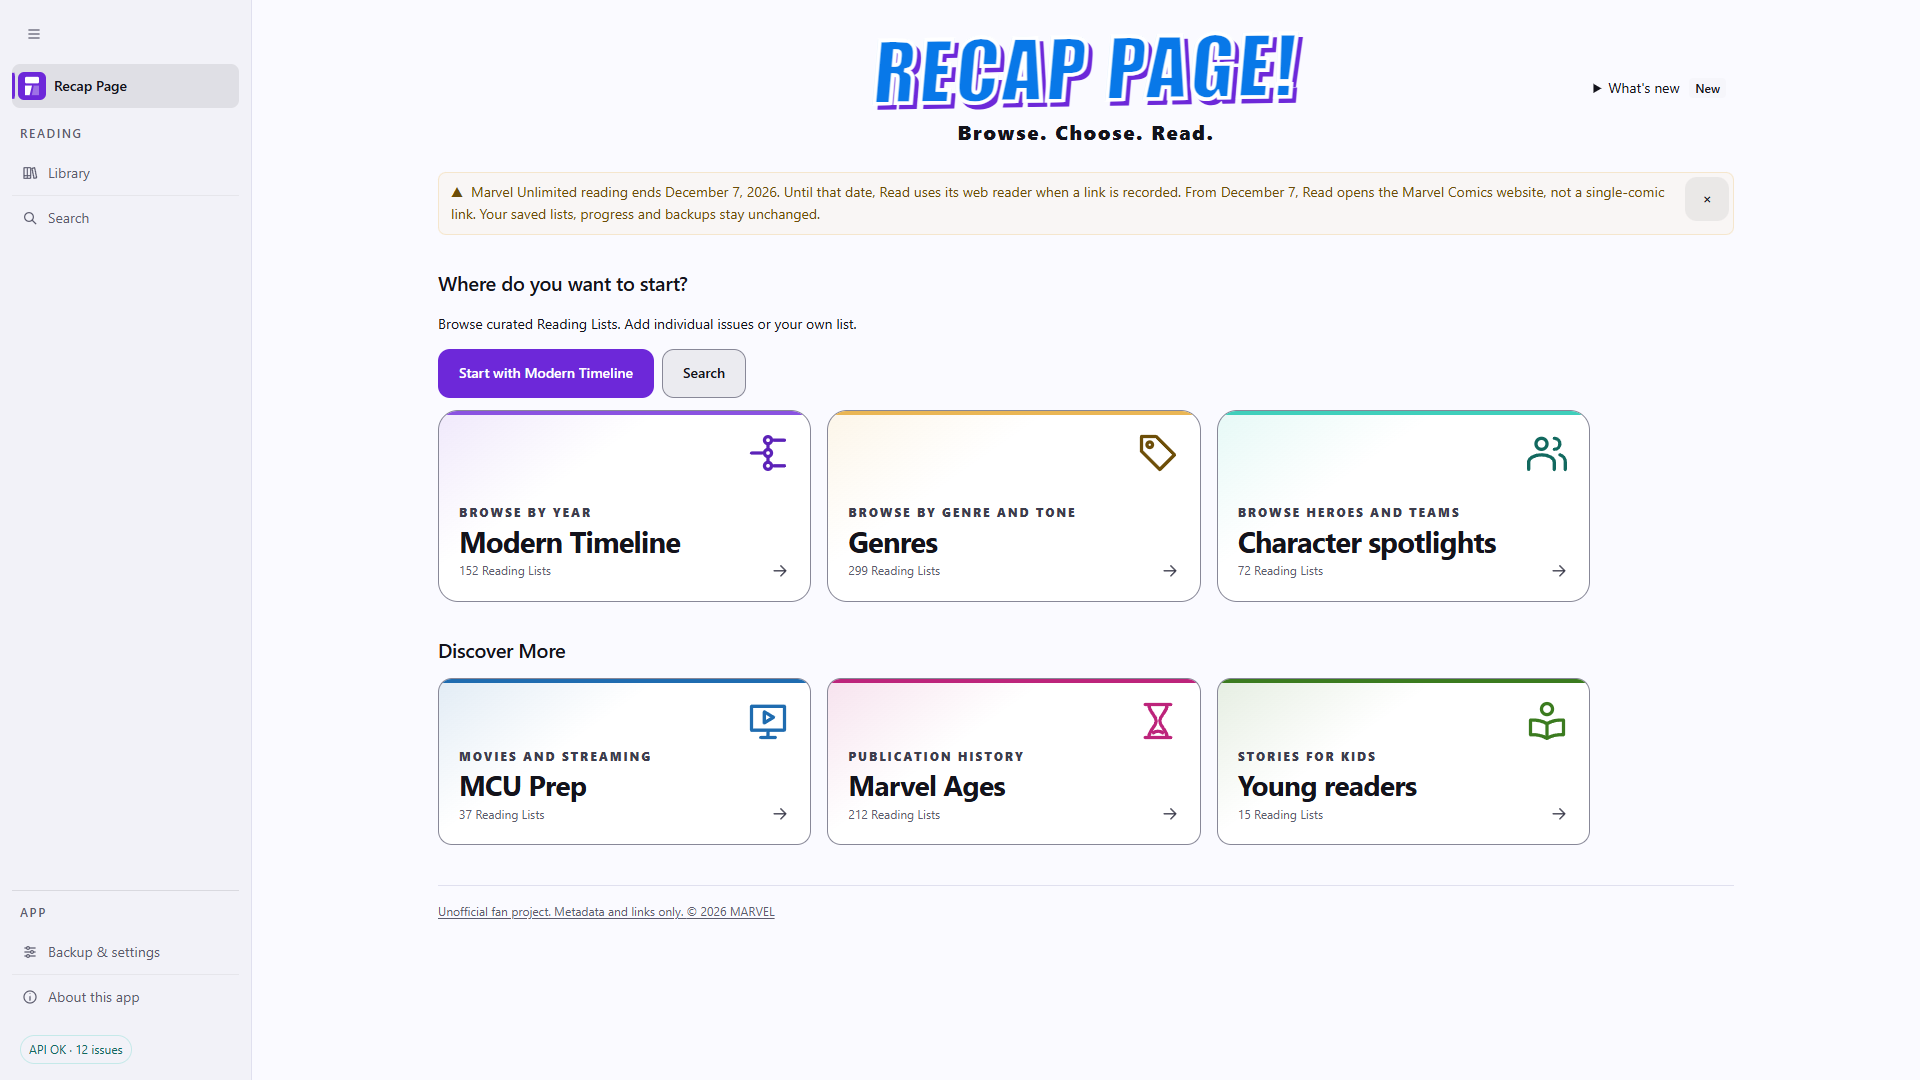
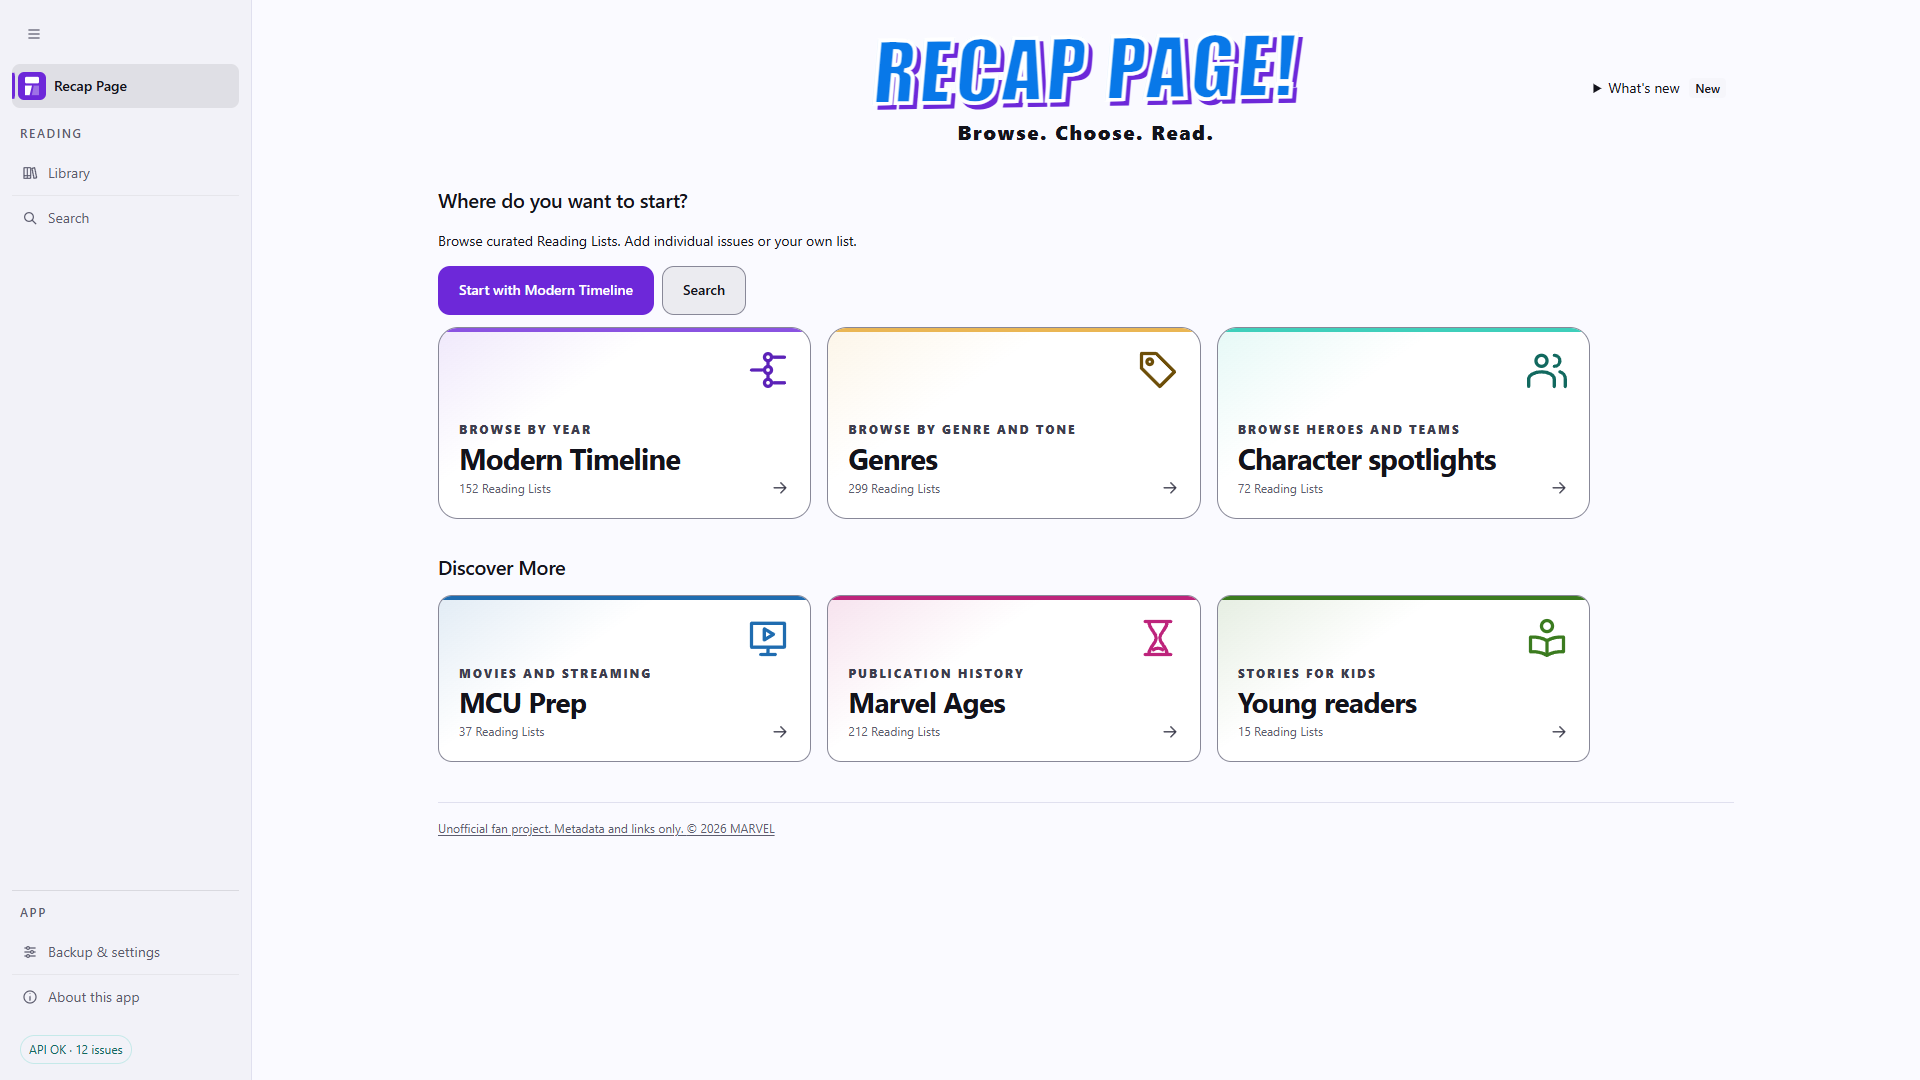
Dismiss the dated Home notice in the saved store screenshots
The owner chose notice-free Home frames for the store refresh. Both capture
paths now use the app's Dismiss button and wait for the notice to disappear
before framing, without changing production UI or synthetic reading data.

Pin both Home-only switches, the click-and-wait sequence, failure propagation,
and the exact Home description and alt text approved on November 3. Removing
the click makes the targeted check fail. Recapture the sets and preserve the
fictional fixtures and capture audits.

Record the owner's current delivery plan: Google Play and the App Store refresh
with 4.4.0; Microsoft Store first completes the automated app submission, then
receives a separate listing-only update after 4.4.0 is live. New documentation
sentences remain subject to owner approval.

Changed region(s): [[0.2188, 0.1528, 0.875, 0.7944], [0.2188, 0.825, 0.4062, 0.8556]]

diff --git a/test/play-assets.test.js b/test/play-assets.test.js
@@ -8,9 +8,49 @@ import {
 } from '../scripts/play-assets.mjs';
 import { migrate } from '../src/js/lib/model.js';
 import { LOCAL_SERVER_HEALTH_PATH } from '../src/js/lib/localServer.js';
+import { dismissListingNotice } from '../scripts/listing-fixtures.mjs';
+import { SCREENSHOTS } from '../scripts/capture-store-assets.mjs';
 
 const icon = playIcon();
 const feature = featureGraphic();
+
+test('only the desktop and Play Home captures dismiss the December 7 notice before framing', async () => {
+  assert.equal(ASSETS.find(({ file }) => file === 'dark-01-home.png').alt,
+    'Dark Android Home with a Modern Timeline starting action, Search and a Modern Timeline discovery card.',
+    'owner-approved notice-free Home alt text, November 3, 2026');
+  assert.ok(readFileSync(new URL('../docs/MICROSOFT_STORE_SUBMISSION.md', import.meta.url), 'utf8')
+    .includes('Dark Home offers a first reading step on Modern Timeline, with Search and a Modern Timeline discovery card.'),
+  'owner-approved notice-free Home description, November 3, 2026');
+  assert.deepEqual(SCREENSHOTS.filter(({ dismissNotice }) => dismissNotice).map(({ file }) => file), ['01-home-discovery.png']);
+  assert.deepEqual(SCREENS.filter(({ dismissNotice }) => dismissNotice).map(({ file }) => file), ['dark-01-home.png']);
+  for (const script of ['capture-store-assets.mjs', 'capture-play-assets.mjs']) {
+    const source = readFileSync(new URL(`../scripts/${script}`, import.meta.url), 'utf8');
+    assert.match(source, /await dismissListingNotice\(page, (?:screen|screenshot)\.dismissNotice\);/);
+    assert.ok(source.indexOf('await dismissListingNotice(') < source.indexOf('await document.fonts.ready'));
+  }
+  const calls = [];
+  const page = {
+    async waitForSelector(selector, options) { calls.push([selector, options]); },
+    async $eval(selector, action) {
+      assert.equal(selector, '#reader-closure-dismiss');
+      action({ click() { calls.push('click'); } });
+    },
+  };
+  await dismissListingNotice(page, false);
+  assert.deepEqual(calls, []);
+  await dismissListingNotice(page, true);
+  assert.deepEqual(calls, [
+    ['#reader-closure-dismiss', { visible: true, timeout: 15000 }],
+    'click',
+    ['#reader-closure-notice', { hidden: true, timeout: 15000 }],
+  ]);
+  await assert.rejects(dismissListingNotice({
+    ...page,
+    async waitForSelector(selector) {
+      if (selector === '#reader-closure-notice') throw new Error('notice remains visible');
+    },
+  }, true), /notice remains visible/);
+});
 
 test('Play icon preserves the authored mark with opaque full-bleed square corners', () => {
   const image = decodePng(icon);

diff --git a/test/store-submission.test.js b/test/store-submission.test.js
@@ -56,7 +56,8 @@ test('the next listing set replaces the false About image with cloud-enabled Abo
   const assets = packet.slice(packet.indexOf('## Listing assets'), packet.indexOf('## Final upload handoff'));
   assert.doesNotMatch(assets, /05-about-privacy\.png/);
   assert.match(assets, /six screenshots were captured/i);
-  assert.match(assets, /live Microsoft Store listing still shows the older\s+screenshots/i);
+  assert.match(assets, /automated 4\.4\.0 Microsoft Store app submission keeps the current screenshots/i);
+  assert.match(assets, /Once 4\.4\.0 is live, a separate listing-only Partner Center submission through Playwright uploads\s+this refreshed Windows set with the approved captions/i);
   assert.match(assets, /predates Genres and\s+still shows Storylines/i);
   assert.match(assets, /next listing update/i);
   assert.match(packet, /In Partner Center, remove the existing About screenshot before submitting 4\.3\.0/);

diff --git a/docs/MICROSOFT_STORE_SUBMISSION.md b/docs/MICROSOFT_STORE_SUBMISSION.md
@@ -317,13 +317,15 @@ copied into the bracketed line above.
 
 ## Listing assets
 
-**Prepared for the next listing update, not the live listing.** Part of #1015.
-The owner chose on 2026-10-31: "Actually, just save the screenshots for later use. I don't want to
-process certification once again." The live Microsoft Store listing still shows the older
-screenshots. Google Play shows the set the owner uploaded on 2026-10-31, which predates Genres and
-still shows Storylines. This refreshed set, with Genres in place of Storylines, is saved for the
-4.4.0 submission. No upload, submission or certification step is part of this work.
-#1015 stays open until both stores are updated, and #810 stays open.
+**Saved assets, not the live listing.** Part of #1015.
+By owner decision, the automated 4.4.0 Microsoft Store app submission keeps the current screenshots.
+Once 4.4.0 is live, a separate listing-only Partner Center submission through Playwright uploads
+this refreshed Windows set with the approved captions. Google Play and the App Store refresh their
+screenshots with 4.4.0. The final captures wait for the release record and the iPad breadcrumb fixes.
+Google Play shows the set the owner uploaded on 2026-10-31, which predates Genres and
+still shows Storylines.
+No upload, submission or certification step is part of this work.
+#1015 stays open until the stores show the refreshed sets, and #810 stays open.
 
 The six screenshots were captured at 1920 x 1080 from installed Edge with an isolated temporary
 profile and a fresh disposable context for each image. Cover art was off. Home, Genres and
@@ -351,6 +353,7 @@ off. Desktop uses the HTTP seam; Android uses its real message-port transport wi
 MainActivity answer. Sign-in, account reads and uploads are forbidden. About and Backup & settings
 must expose every cloud-on text variant and hide every cloud-off variant before capture.
 
+Home's December 7 notice is dismissed through the app's Dismiss button before framing.
 About is naturally scrolled toward Your data and the version. Backup & settings is scrolled to
 Cloud backup with About cloud backup expanded. No production copy or layout is rewritten for
 the images. The commands audit cover-off state, image sources, private text, old privacy promises,
@@ -387,12 +390,12 @@ Prepared desktop asset measurements:
 
 | File | Dimensions | Bytes | SHA-256 |
 |---|---:|---:|---|
[9 lines of base64/hex data omitted]
 
 ### Google Play phone captions and measurements
@@ -406,10 +409,10 @@ manual set. The light Library and reading images replace `android-library-previe
 
 | File | Bytes | Caption for the next listing update |
 |---|---:|---|
-| `dark-01-home.png` | 176463 | Dark Home offers a first reading step and explains the December 7 change to Marvel Comics links. |
+| `dark-01-home.png` | 209356 | Dark Home offers a first reading step on Modern Timeline, with Search and a Modern Timeline discovery card. |
 | `dark-02-genres.png` | 173408 | Dark Genres sorts Reading Lists by genre and tone and suggests popular places to start. |
 | `dark-03-modern-timeline.png` | 104646 | Dark Modern Timeline offers the Modern Avengers path and controls for choosing a stop. |
-| `dark-04-reading-progress.png` | 322687 | Dark reading view shows a fictional list three of eight read, with the next issues coming up. |
+| `dark-04-reading-progress.png` | 322686 | Dark reading view shows a fictional list three of eight read, with the next issues coming up. |
 | `01-library-preview.png` | 133329 | Library separates a fictional list in progress from one not yet started. |
 | `02-reading-preview.png` | 175228 | Light reading view puts the next fictional issue and its Done button first, with cover art off. |
 | `03-about-onedrive.png` | 254595 | About explains Android app storage and optional uploads only to your own OneDrive. |
@@ -420,7 +423,7 @@ replacement images contain no claim that progress or notes are never sent anywhe
 About and settings images explicitly show optional OneDrive transfer and private Android storage.
 The same audit applies to the desktop images planned for Play. The obsolete About image is not
 in either saved packet. These are prepared assets, not approval to publish or a new certification
-request. No further owner decision is needed to save them; future listing use is separate work.
+request. Saving is authorized; any further caption changes need owner approval before listing use.
 
 Omit trailers, 16:9 Super hero art, game poster art, box art, Xbox art, and Holographic art. The
 300 x 300 tile is the only new Store logo. A Super hero image is optional promotional artwork with

diff --git a/docs/GOOGLE_PLAY_ASSETS.md b/docs/GOOGLE_PLAY_ASSETS.md
@@ -6,9 +6,11 @@ assets, not a submission packet or permission to publish. It needs no Play Conso
 Android SDK, emulator, signing key or live service. The app, its identity and saved reading data
 stay unchanged.
 
-The refreshed screenshots are saved for the **4.4.0 listing update**, under Part of #1015. The owner
-chose to save them for later rather than process certification again. The live Play listing shows
-the set uploaded on 2026-10-31, which predates Genres and still shows Storylines. No upload step is part of this work. Captions, measurements,
+By owner decision, Google Play and the App Store refresh their screenshots with **4.4.0**, as part
+of #1015. Microsoft Store keeps its current screenshots during the automated 4.4.0 app submission;
+once 4.4.0 is live, a separate listing-only Partner Center submission through Playwright uploads
+the refreshed Windows set with the approved captions. The live Play listing shows the set uploaded on 2026-10-31,
+which predates Genres and still shows Storylines. No upload step is part of this work. Captions, measurements,
 the desktop set planned for Play and the cloud fixture are recorded in
 [the Store submission document](MICROSOFT_STORE_SUBMISSION.md#listing-assets).
 
@@ -70,7 +72,8 @@ Scrolling down hides the phone's bottom navigation, so the capture then scrolls 
 and returns, as a reader does to bring the bar back, and waits for every animation to finish.
 Original CSS cover-off placeholders stay visible.
 
-Each screen uses an isolated, disposable browser context. Home uses empty saved state. The
+Each screen uses an isolated, disposable browser context. Home uses empty saved state and dismisses
+the December 7 notice through the app's Dismiss button before framing. The
 [tooling-only fixture](../scripts/play-assets.mjs) supplies two explicitly fictional lists with
 12 made-up negative-ID issues and three read markers. It has no notes, availability overrides,
 cover URLs, digital reader IDs, publisher URLs or real reader data. Discovery uses the bundled

diff --git a/docs/IOS.md b/docs/IOS.md
@@ -558,6 +558,11 @@ the app's normal description setting. It does not save the synopsis in reading d
 health check uses the Play preview's fictional response; other requests outside the app bundle are
 blocked.
 
+By owner decision, the App Store and Google Play refresh their screenshots with 4.4.0;
+Microsoft Store updates its listing separately after the automated 4.4.0 app submission is live.
+The iPad capture waits for the breadcrumb fixes in #1070 and #1042 and the 4.4.0 release record;
+the Home notice remains dismissed.
+
 The checked-in images below predate Genres and still show the retired Storylines screen. The next
 capture replaces that screen with Genres and updates the Home image; its fourth caption is
 "Browse reading lists by genre and tone, or start with popular picks."
